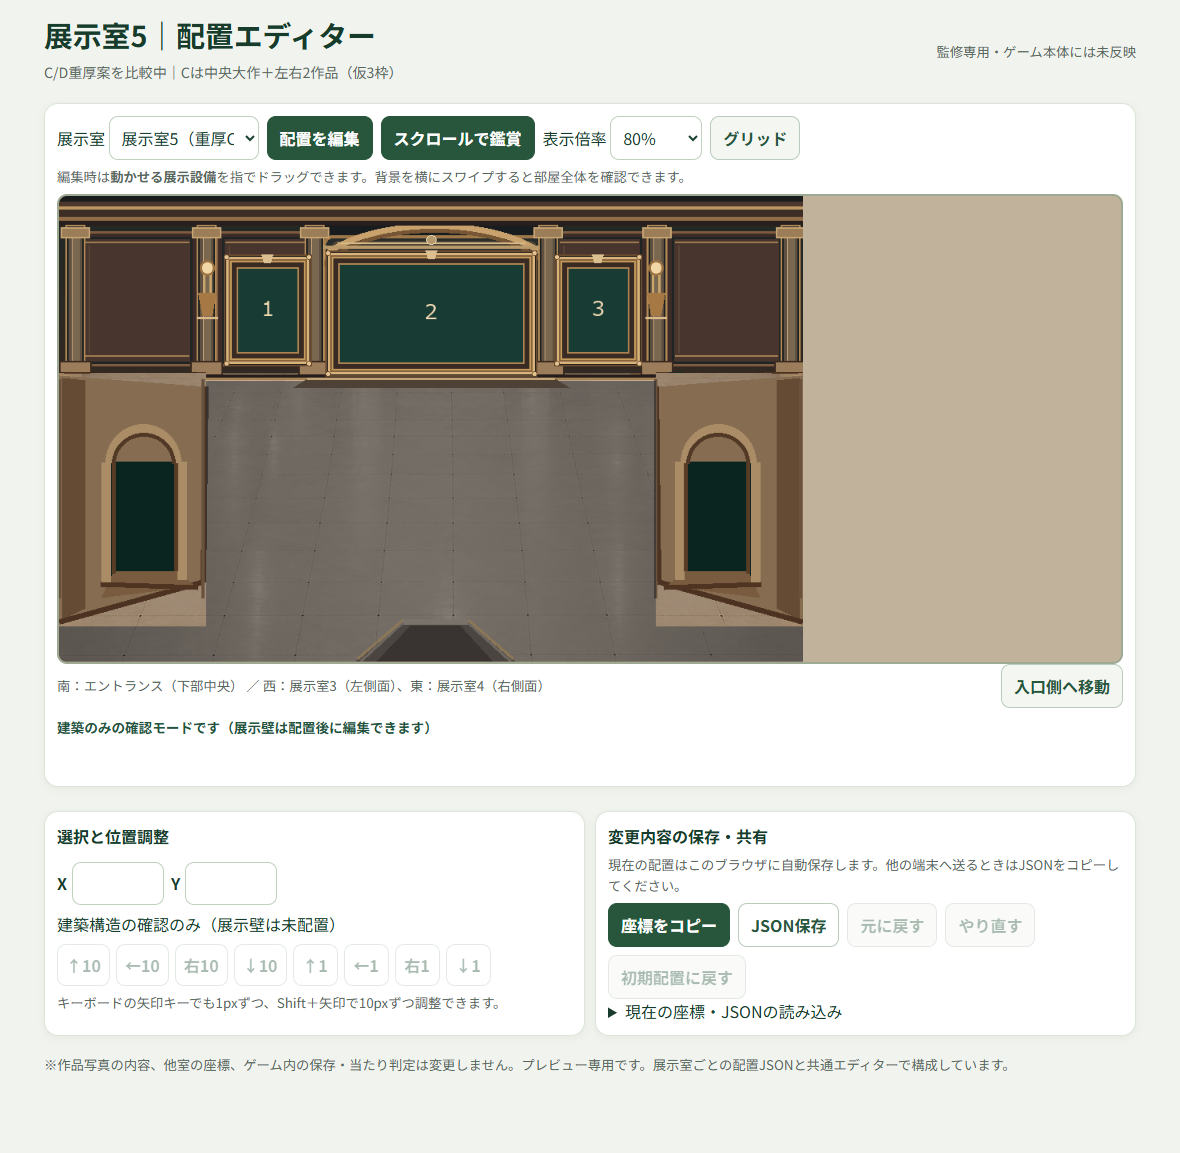
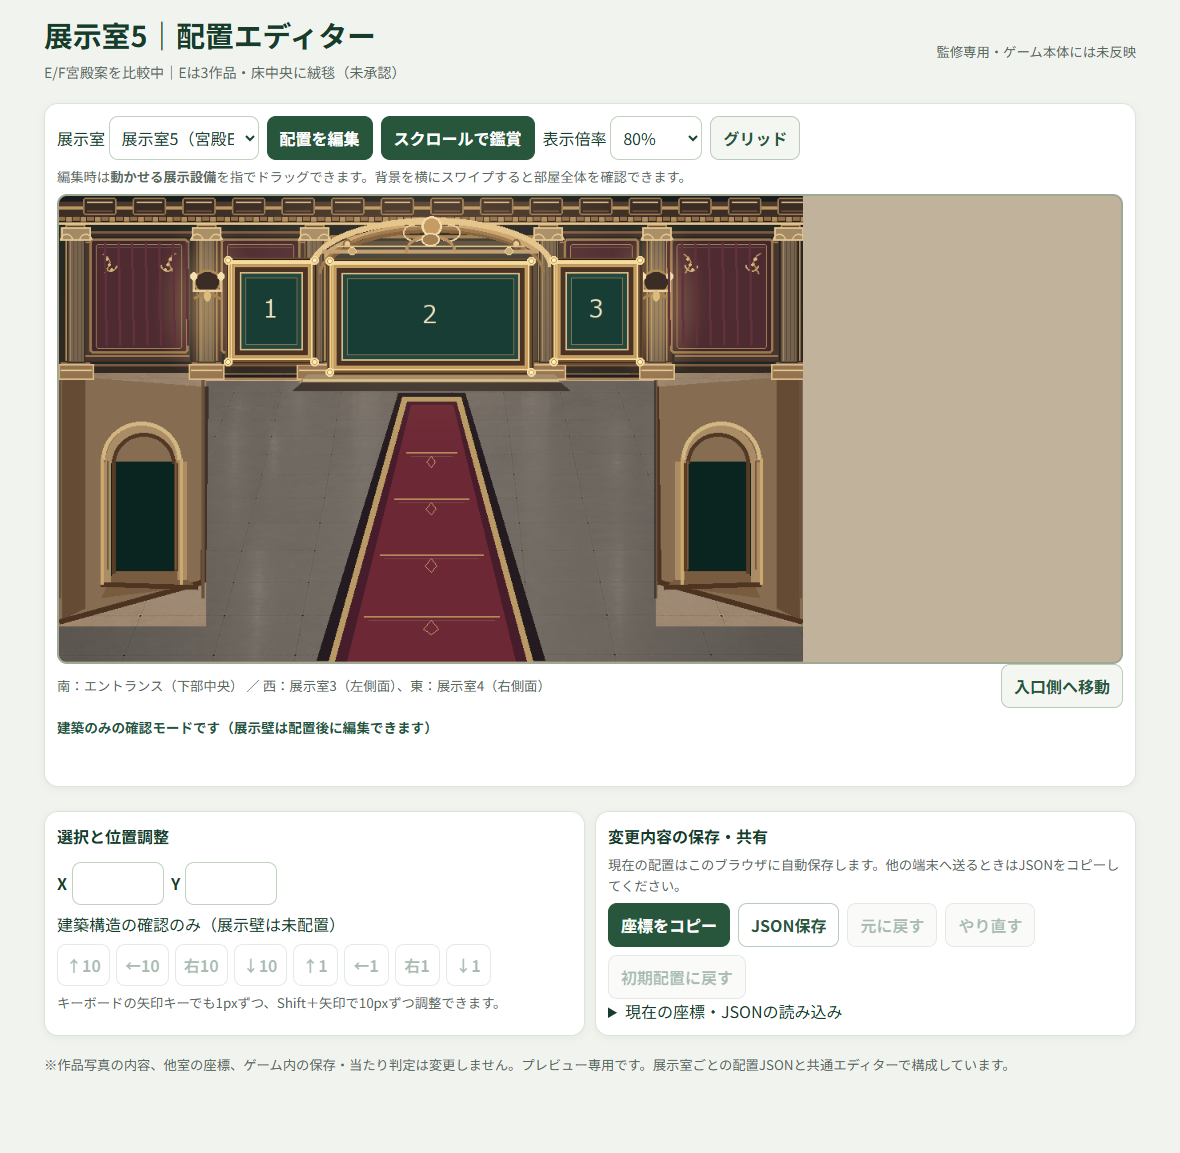
feat(a18): gallery5 palace E/F visual design studies

diff --git a/qa/gallery5_palace_EF.py b/qa/gallery5_palace_EF.py
@@ -1,0 +1,172 @@
+"""A18 Gallery 5: E/F palace-grade concept previews, 3 and 5 works (NOT approved).
+Build on preserved heavy-C architecture; never overwrite old concepts or game fixtures.
+"""
+from pathlib import Path
+from PIL import Image, ImageDraw, ImageFilter, ImageFont
+import math, hashlib
+ROOT=Path(__file__).resolve().parents[1]
+OUT=ROOT/"rooms/gallery5"
+SOURCE=OUT/"gallery5_heavy_architecture_C.png"
+ORIG_HASH=hashlib.sha256(SOURCE.read_bytes()).hexdigest()
+W,H=930,582
+NUM=ImageFont.truetype("C:/Windows/Fonts/meiryo.ttc",30)
+SMALL=ImageFont.truetype("C:/Windows/Fonts/meiryo.ttc",16)
+def radial(im, cx,cy,rx,ry,rgb,a):
+ layer=Image.new("RGBA",im.size,(0,0,0,0)); pix=layer.load()
+ for y in range(max(0,round(cy-ry)),min(H,round(cy+ry))):
+  for x in range(max(0,round(cx-rx)),min(W,round(cx+rx))):
+   t=((x-cx)/rx)**2+((y-cy)/ry)**2
+   if t<1:pix[x,y]=(*rgb,int(a*(1-t)**2))
+ return Image.alpha_composite(im,layer)
+def filigree(d,x,y,scale=1,mirror=1):
+ # Subtle classical relief: gold flowers + curled stems (wall corners only).
+ s=scale; m=mirror
+ pts=[(0,0),(6,4),(11,13),(8,23),(2,30)]
+ path=[(round(x+m*px*s),round(y+py*s)) for px,py in pts]
+ d.line(path,fill="#aa8555",width=2)
+ d.arc((round(x+m*(2 if m>0 else 22)*s),round(y+9*s),round(x+m*(22 if m>0 else 2)*s),round(y+28*s)),0,185,fill="#c3a36b",width=2)
+ for k in (0,1,2):
+  xx=x+m*(7+k*4)*s; yy=y+(k*8+9)*s
+  d.ellipse((xx-2*s,yy-2*s,xx+2*s,yy+2*s),fill="#d7b784")
+def base_palace():
+ im=Image.open(SOURCE).convert("RGBA")
+ d=ImageDraw.Draw(im)
+ # Coffered palace cornice and carved dentils remain at top, without replacing wall geometry.
+ for x in range(30,920,62):
+  d.rounded_rectangle((x,2,x+41,23),radius=3,fill="#392c25",outline="#9a7952",width=2)
+  d.line((x+5,7,x+36,7),fill="#d4b384",width=2)
+  d.line((x+5,18,x+36,18),fill="#6a4a36",width=2)
+ for x in range(8,930,18):
+  d.rectangle((x,25,x+8,32),fill="#b18a5e",outline="#2c241e",width=1)
+ d.line((0,34,929,34),fill="#e2c58e",width=3)
+ # Deep-burgundy velvet panel inserts and double raised brass inlay.
+ for x0,x1 in ((38,161),(202,301),(631,724),(764,892)):
+  d.rounded_rectangle((x0,53,x1,196),radius=5,fill="#42262b",outline="#98784d",width=3)
+  d.rounded_rectangle((x0+8,60,x1-8,190),radius=3,fill="#4d2b30",outline="#a78857",width=1)
+  d.line((x0+11,64,x1-11,64),fill="#65494a",width=1)
+  if x1-x0>110:
+   filigree(d,x0+16,72,0.8,1);filigree(d,x1-16,72,0.8,-1)
+ # Carved fluted pilaster shafts. The old architecture shape remains underneath.
+ for x in (21,184,319,611,747,912):
+  d.rectangle((x-11,47,x+11,208),fill="#78644d",outline="#3a3129",width=2)
+  for dx in (-7,-3,2,7): d.line((x+dx,56,x+dx,205),fill="#a98a63" if dx==-7 else "#534b40",width=1)
+  d.rectangle((x-18,39,x+18,55),fill="#a58b65",outline="#e1c595",width=2)
+  d.rectangle((x-22,210,x+22,229),fill="#94734f",outline="#d9b986",width=2)
+  d.line((x-19,217,x+19,217),fill="#e3c891",width=2)
+  # capitals curl away from artwork
+  d.arc((x-20,47,x-4,63),180,355,fill="#e4c78d",width=2)
+  d.arc((x+4,47,x+20,63),180,355,fill="#e4c78d",width=2)
+ # Antique stone panels at side arch with gold outline, openings not occluded.
+ for left,right in ((53,152),(778,877)):
+  d.arc((left,282,right,377),180,360,fill="#d3b782",width=5)
+  d.line((left,328,left,485),fill="#cba96c",width=4)
+  d.line((right,328,right,485),fill="#cba96c",width=4)
+  d.line((left+7,331,left+7,466),fill="#755839",width=2)
+  d.line((right-7,331,right-7,466),fill="#755839",width=2)
+ # Central arched vault above focal image, layered stone and discreet rococo scroll.
+ d.arc((313,27,618,150),180,360,fill="#e2c58b",width=8)
+ d.arc((325,38,606,155),180,360,fill="#947248",width=4)
+ d.ellipse((453,25,478,50),fill="#be955c",outline="#f5dcac",width=3)
+ d.arc((430,35,458,56),35,270,fill="#e7d0a0",width=2)
+ d.arc((473,35,501,56),265,155,fill="#e7d0a0",width=2)
+ # Massive dark stone base beneath artwork, without protruding into walk path.
+ d.polygon([(310,223),(619,223),(628,233),(299,233)],fill="#a18b68")
+ d.polygon([(303,233),(627,233),(638,243),(292,243)],fill="#3e352f")
+ d.line((305,230,624,230),fill="#d9be8a",width=3)
+ # Coherent palace carpet: red center runner from the south entrance toward the feature wall.
+ # Its footprint remains visual only; never generates collision.
+ d.polygon([(424,246),(507,246),(607,580),(322,580)],fill="#241b20")
+ d.polygon([(429,251),(502,251),(592,581),(337,581)],fill="#b99a64")
+ d.polygon([(435,257),(496,257),(584,581),(345,581)],fill="#471d2b")
+ d.polygon([(440,261),(492,261),(570,581),(360,581)],fill="#6c2835")
+ for t in (0.19,0.37,0.59,0.83):
+  y=int(260+(580-260)*t);left=int(442-82*t);right=int(490+82*t)
+  d.line((left+8,y,right-8,y),fill="#b18b58",width=2)
+  d.line((left+14,y+5,right-14,y+5),fill="#7c4950",width=1)
+  mx=(left+right)//2
+  d.polygon([(mx,y+5),(mx+5+5*t,y+12+5*t),(mx,y+18+7*t),(mx-5-5*t,y+12+5*t)],outline="#c4a36e")
+ # South side threshold remains centered. Burgundy carpet meets, not hides, the doorway.
+ im=radial(im,467,84,325,260,(246,204,145),36)
+ for x in (183,746):
+  im=radial(im,x,133,70,118,(255,212,137),75)
+ return im
+def gallery_frame(im,num,x,y,w,h,signature=False):
+ d=ImageDraw.Draw(im)
+ # Bespoke thick gilt frame whose mount, shine and rosettes are separable in future.
+ d.rounded_rectangle((x+5,y+8,x+w+9,y+h+10),radius=3,fill="#161715")
+ for pad,stroke,border in ((11,"#1d1f1d","#6e4b2d"),(8,"#85552b","#f1cd85"),
+                            (5,"#c29856","#f2dba2"),(1,"#4a3325","#c6a166")):
+  d.rectangle((x-pad,y-pad,x+w+pad,y+h+pad),fill=stroke,outline=border,width=2)
+ d.rectangle((x+7,y+7,x+w-7,y+h-7),fill="#23483f",outline="#d9b984",width=2)
+ d.rectangle((x+14,y+14,x+w-14,y+h-14),fill="#173d34",outline="#8f7553",width=1)
+ # Thin dimensional highlights convey gilding, not a plain yellow rectangle.
+ d.line((x-6,y-7,x+w+7,y-7),fill="#f4dca7",width=2)
+ d.line((x-6,y-7,x-6,y+h+7),fill="#d0a66d",width=2)
+ d.line((x+w+7,y-7,x+w+7,y+h+7),fill="#6b4e31",width=3)
+ d.line((x-6,y+h+7,x+w+7,y+h+7),fill="#77532f",width=3)
+ for xx in (x-8,x+w+8):
+  for yy in (y-8,y+h+8):
+   d.ellipse((xx-5,yy-5,xx+5,yy+5),fill="#b99051",outline="#f7dea1",width=2)
+   d.ellipse((xx-2,yy-2,xx+2,yy+2),fill="#fff0bc")
+ # Sculpted crowns and small gold cartouche.
+ if signature:
+  d.line((x-17,y-20,x+w+17,y-20),fill="#c2a074",width=5)
+  d.line((x+1,y-27,x+w-1,y-27),fill="#e0be84",width=2)
+  d.arc((x+w/2-32,y-41,x+w/2+32,y+3),180,355,fill="#b99161",width=4)
+  d.ellipse((x+w/2-11,y-43,x+w/2+11,y-27),fill="#a58152",outline="#f5dfb1",width=2)
+  for cx in (x+20,x+w-20):
+   d.ellipse((cx-5,y-25,cx+5,y-16),fill="#ceae77",outline="#f4dba9")
+ d.text((x+w/2,y+h/2),str(num),font=NUM,fill="#f5e2bf",anchor="mm")
+def candle_lights(im):
+ # Wall chandeliers/sconces at both sides, kept away from artwork and doors.
+ d=ImageDraw.Draw(im)
+ for x in (185,746):
+  d.ellipse((x-17,92,x+17,122),fill="#3b2c25",outline="#ae8b56",width=3)
+  for dx in (-17,17):
+   d.line((x,119,x+dx,128),fill="#a88455",width=4)
+   d.line((x+dx,117,x+dx,102),fill="#dbc190",width=3)
+   d.ellipse((x+dx-4,95,x+dx+4,105),fill="#f5dfac")
+  d.line((x-18,118,x+18,118),fill="#edce9b",width=3)
+  d.ellipse((x-4,118,x+4,131),fill="#ddba7d")
+ # Tiny light sources along the upper feature vault, not a giant ceiling chandelier.
+ for x in (360,571):
+  d.ellipse((x-5,54,x+5,65),fill="#e7cb93",outline="#886740",width=2)
+def make(name):
+ im=base_palace()
+ candle_lights(im)
+ # Inner maroon vertical curtains add a historic palace look, but never conceal frames.
+ d=ImageDraw.Draw(im)
+ for x0,x1 in ((57,162),(761,868)):
+  for x in range(x0,x1,17):
+   d.line((x,58,x+2,186),fill="#60323b",width=3)
+ if name=="E":
+  fixtures=[(1,219,88,92,111),(2,346,89,236,123),(3,626,88,92,111)]
+ else:
+  fixtures=[(1,215,72,92,51),(2,215,153,92,51),
+            (3,346,89,236,123),(4,625,72,92,51),(5,625,153,92,51)]
+ for n,x,y,w,h in fixtures:
+  gallery_frame(im,n,x,y,w,h,signature=(n==(2 if name=="E" else 3)))
+ return im.convert("RGB")
+original=Image.open(OUT/"gallery5_heavy_C.png").convert("RGB")
+arch=base_palace().convert("RGB")
+arch.save(OUT/"gallery5_palace_architecture_E.png")
+for variant in ("E","F"):
+ make(variant).save(OUT/f"gallery5_palace_{variant}.png")
+compare=Image.new("RGB",(1904,640),"#ede8e0")
+d=ImageDraw.Draw(compare)
+title=ImageFont.truetype("C:/Windows/Fonts/meiryo.ttc",20)
+d.text((12,15),"C案：前回の重厚な展示室（3枠）",fill="#334036",font=title)
+d.text((962,15),"E案：宮殿風・柱と金装飾・絨毯（3枠）",fill="#334036",font=title)
+compare.paste(original,(12,48))
+compare.paste(Image.open(OUT/"gallery5_palace_E.png"),(962,48))
+compare.save(OUT/"gallery5_C_vs_E_palace.png")
+compare2=Image.new("RGB",(1904,640),"#ede8e0")
+d=ImageDraw.Draw(compare2)
+d.text((12,15),"E案：宮殿の特別展示室（3枠）",fill="#334036",font=title)
+d.text((962,15),"F案：同じ宮殿装飾で5枠を維持",fill="#334036",font=title)
+compare2.paste(Image.open(OUT/"gallery5_palace_E.png"),(12,48))
+compare2.paste(Image.open(OUT/"gallery5_palace_F.png"),(962,48))
+compare2.save(OUT/"gallery5_palace_E_vs_F.png")
+assert hashlib.sha256(SOURCE.read_bytes()).hexdigest()==ORIG_HASH
+assert Image.open(OUT/"gallery5_palace_E.png").size==(930,582)
+print("PASS palace E=3 and F=5, original heavy-C architecture byte unchanged")

diff --git a/qa/check_gallery5_live.py b/qa/check_gallery5_live.py
@@ -9,12 +9,13 @@ root=Path(__file__).resolve().parents[1]
 room=json.loads((root/'rooms/gallery5/room.json').read_text(encoding='utf-8'))
 assert room['id']=='gallery5'
 assert room['frameCount']==5
-assert room['previewArtworkCount']==3 and room['background'].endswith('gallery5_heavy_C.png')
+assert room['previewArtworkCount']==3 and room['background'].endswith('gallery5_palace_E.png')
 assert room['entrance'].startswith('南') and room['exit'].startswith('西')
 assert '東' in room['exit'] and len(room['objects'])==0
 assert room['status'].startswith('unapproved')
 for name in ('gallery5_concept_A.png','gallery5_concept_B.png','gallery5_architecture_only.png',
-             'gallery5_heavy_C.png','gallery5_heavy_D.png','gallery5_heavy_architecture_C.png'):
+             'gallery5_heavy_C.png','gallery5_heavy_D.png','gallery5_heavy_architecture_C.png',
+             'gallery5_palace_E.png','gallery5_palace_F.png','gallery5_palace_architecture_E.png'):
  assert Image.open(root/'rooms/gallery5'/name).size==(930,582)
 class Quiet(SimpleHTTPRequestHandler):
  def log_message(self,*args): pass
@@ -27,17 +28,17 @@ try:
    ctx=browser.new_context(viewport={'width':width,'height':850})
    page=ctx.new_page();errors=[]
    page.on('pageerror',lambda e:errors.append(str(e)))
-   r=page.goto(f'http://127.0.0.1:{server.server_port}/?room=gallery5&rev=heavy-CD-qa',wait_until='networkidle')
+   r=page.goto(f'http://127.0.0.1:{server.server_port}/?room=gallery5&rev=palace-EF-qa',wait_until='networkidle')
    assert r.status==200
    page.wait_for_function('window.__A18_LAYOUT_EDITOR__ && window.__A18_LAYOUT_EDITOR__.getState().roomId==="gallery5"')
    st=page.evaluate('window.__A18_LAYOUT_EDITOR__.getState()')
    assert st['objects']=={},st
    assert page.locator('#zoom').input_value()==('.35' if width==390 else '.8')
    assert all(page.locator('#stage img').evaluate_all('(es)=>es.map(e=>e.complete && e.naturalWidth>0)'))
-   assert any('gallery5_heavy_C.png' in s for s in page.locator('#stage img').evaluate_all('(es)=>es.map(e=>e.src)'))
+   assert any('gallery5_palace_E.png' in s for s in page.locator('#stage img').evaluate_all('(es)=>es.map(e=>e.src)'))
    assert not errors,errors
    page.screenshot(path=str(root/'rooms/gallery5'/f'editor_gallery5_{width}.png'),full_page=True)
-   print('PASS gallery5 heavy C unapproved',width,'3 art visuals; original game 5 fixtures unchanged')
+   print('PASS gallery5 palace E unapproved',width,'3 art visuals; original game 5 fixtures unchanged')
    ctx.close()
   browser.close()
 finally:

diff --git a/rooms/gallery5/PALACE_EF_REVIEW_20261029.md b/rooms/gallery5/PALACE_EF_REVIEW_20261029.md
@@ -1,0 +1,29 @@
+# A18 展示室5｜宮殿風の重厚さを追加したE/F案（未承認）
+
+## 監修の背景
+ユーザーは重厚C/D案の世界観を気に入り「さらにその提案みてみたい」と依頼。前回「5枚にこだわる必要もない」とも発言したが、正式な枠数変更を決定したわけではない。
+
+## E/Fの内容
+- **E案（推奨比較）**：中央に大きな一枚・左右に縦長2枚、合計3作品の**見た目**。
+- **F案（比較用）**：同じ建築・装飾・中央主役で、左右に2段ずつ4枚、合計5作品の**見た目**。
+- 深いワインレッドの壁装、彫刻のある石柱・飾り柱、上部の格天井風装飾、金装飾の額縁、左右の壁灯、中央へ伸びる赤い絨毯、暗い石調床を追加。
+- 三つの正しい出入り口（南：エントランス／西：展示室3／東：展示室4）を保持。北に扉なし。
+- 930×582キャンバス、既存視点・床パース・部屋ID（gallery5＝内部5）を保持。新装飾は画像の一部で、通行の判定は作らない。
+
+## プレビュー成果物
+- `gallery5_palace_E.png`（3作品、監修用Webの暫定背景）
+- `gallery5_palace_F.png`（5作品、別画像として比較）
+- `gallery5_C_vs_E_palace.png`（前の重厚C案との比較）
+- `gallery5_palace_E_vs_F.png`（EとFの作品数比較）
+- `gallery5_palace_architecture_E.png`（額縁なし版、画像用ラフ）
+- 再生成スクリプト：`qa/gallery5_palace_EF.py`
+- 前のA/B、C/D画像は一切上書きしていない。`room_AB_reference.json`、`room_CD_reference.json` に過去のプレビュー設定を分離保全。
+
+## 既存仕様との境界
+- ゲームの枠数は変えていない：全館28枠・内部`frame-5-0`〜`frame-5-4` の5設備を維持。
+- E案が正式に3枚となる場合、別工程で展示達成判定、保存方式、既存設備の扱いを設計・承認する。現在の画像は3枚だけ描いた静止コンセプトであり、ゲームが3枠になったわけではない。
+- 表示レイヤー・当たり判定・ドア遷移・スタッフ・実際の作品展示は未実装／未検証。
+- 装飾の華美さ・光量・絨毯・額縁数は全て監修待ち。**ユーザーの承認前にEやFを正式採用しない。**
+
+## Git
+`a18-gallery-layout-editor` の既存 `work/a18-gallery-layout-preview-20261028` で作業。プレビュー用のwork公開のみで、本体公開やissue/mainマージは行わない。
